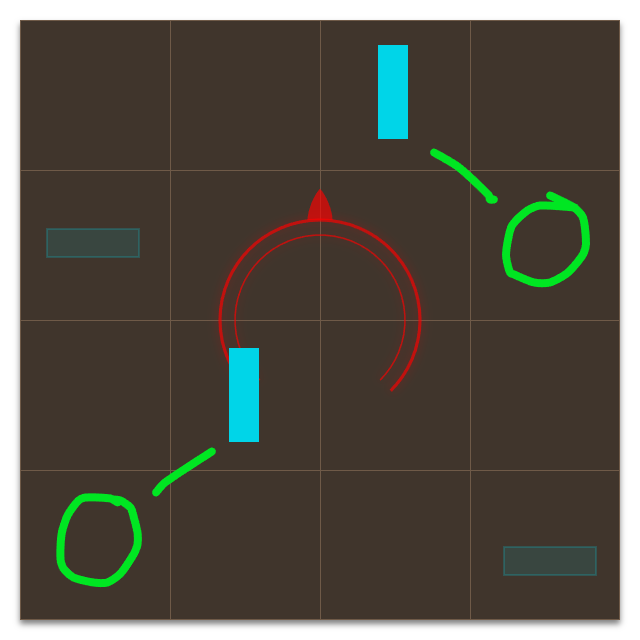
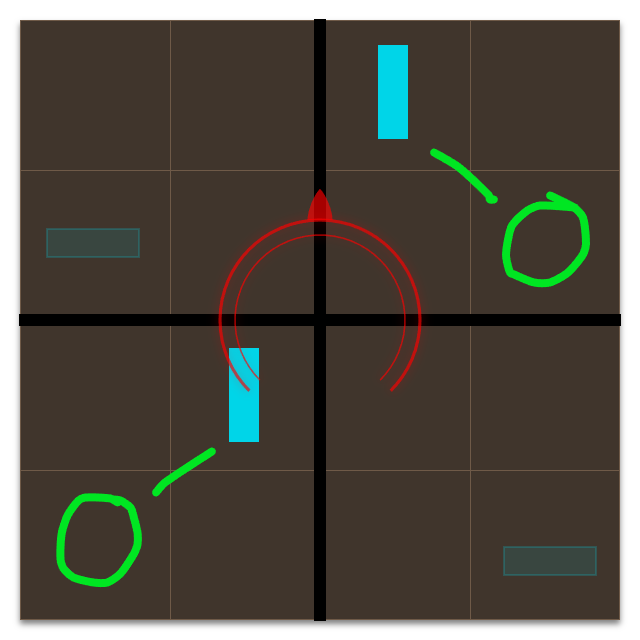
Little more cleanup on fluke gale

Changed region(s): [[0.0312, 0.3438, 0.9688, 0.9688], [0.4688, 0.0312, 0.5312, 0.3125], [0.3438, 0.5625, 0.4062, 0.625]]

diff --git a/guides/_ew/aai/ketuduke/fluke-gale.md b/guides/_ew/aai/ketuduke/fluke-gale.md
@@ -98,8 +98,6 @@ the safe spots.
 > ![](./horizontal-h.png)
 </div>
 
------
-
 # Strategy
 
 This mechanic is role based and does not require any flexing.
@@ -150,9 +148,6 @@ the debuff they received.
 <div class="mechanics" markdown="1">
 >Find the vertical (east/west facing) crystal on your side, and stand one square
 > diagonally from it, within the same quadrant that it spawned in.
->
-> This will always place you in the 2 quadrant, meaning you can easily see where
-> you will be blown to.
 
 ![](./bubble-ez.png)
 </div>
@@ -161,11 +156,6 @@ the debuff they received.
 > Standing too close to the corner or edge of a square can result in a spread
 > reaching across a gap into another safe spot, or a stack marker missing your
 > partner.
-
-{: .info .mt-8 }
-> Because we have the *![bubble]Bubble* players begin on the 2 quadrant, it is
-> easy to see where each player's ending locations will be. You can use this info
-> to position yourself for melee uptime.
 
 {: .mechanics .mt-8 }
 {% collapse More Info - Why It Works %}
@@ -233,9 +223,7 @@ the debuff they received.
 > ![](./example-stack-3.png)
 </div>
 
------
-
-{: .povs }
+{: .povs .mt-8 }
 {% collapse POVs %}
 > **Ranged POV - Bubble**
 >

diff --git a/guides/_ew/aai/ketuduke/debuffs/hydrofall.md b/guides/_ew/aai/ketuduke/debuffs/hydrofall.md
@@ -7,6 +7,7 @@
 >
 > This is a simple 2 person stack. It is roughly the size of an arena square,
 > however if you are in the center, it will not quite reach the corners. This
-> debuff is always role based - both *[support]Support* or both *[dps]DPS*.
+> debuff is always role based - both *[support]Support* or both *[dps]DPS*,
+> unless a player is dead when *[cast]Hydrofall* resolves.
 
 [fall]: {{ page.root }}/debuffs/hydrofall.png#debuff
